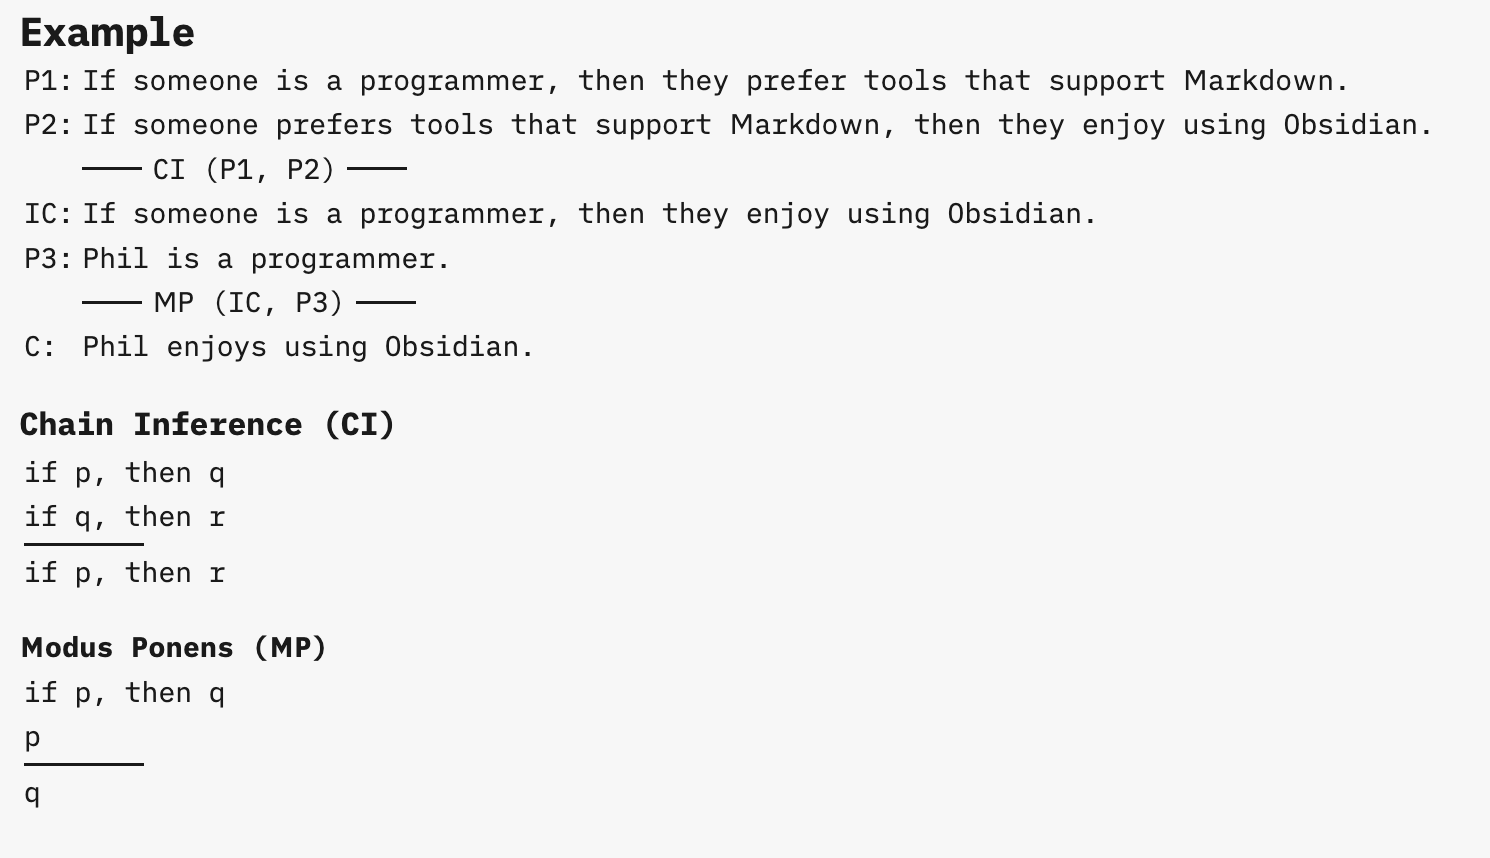
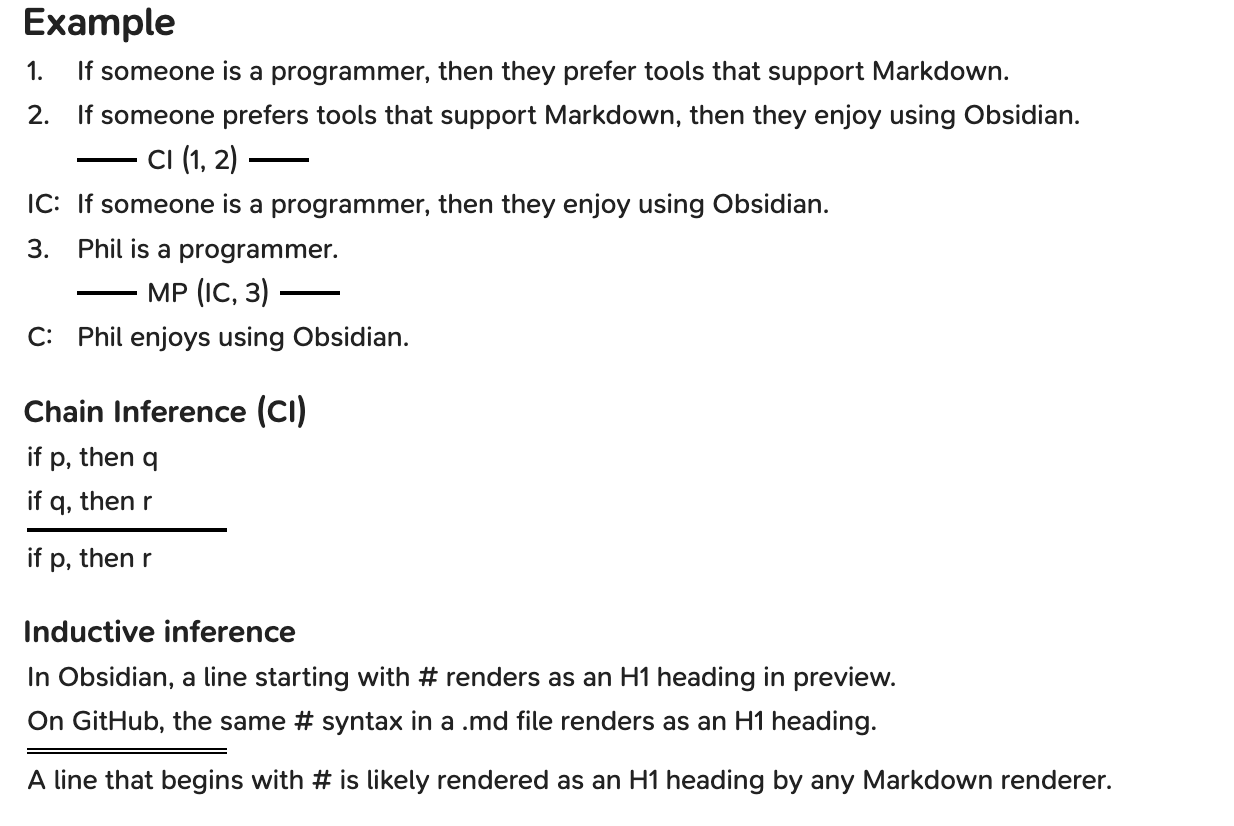
new release

diff --git a/README.md b/README.md
@@ -28,5 +28,7 @@ not p
 ````
 ### Format
 - Identifiers must end with either a colon (`:`) or a period (`.`), such as `P1:`, `C1.`, or `Something:`.
+  - If you want to use a colon or period in your premisse or conclusion text, it needs to be escaped with a backslash: `Some text\. More text`.
 - Identifiers can be ommited.
 - Conclusion lines can be written either as `-- any text --` or simply `--` to create a line without text.
+  - To indicate a inductive inference,  `==` can be used to draw a double line (also works with `== text ==`)
